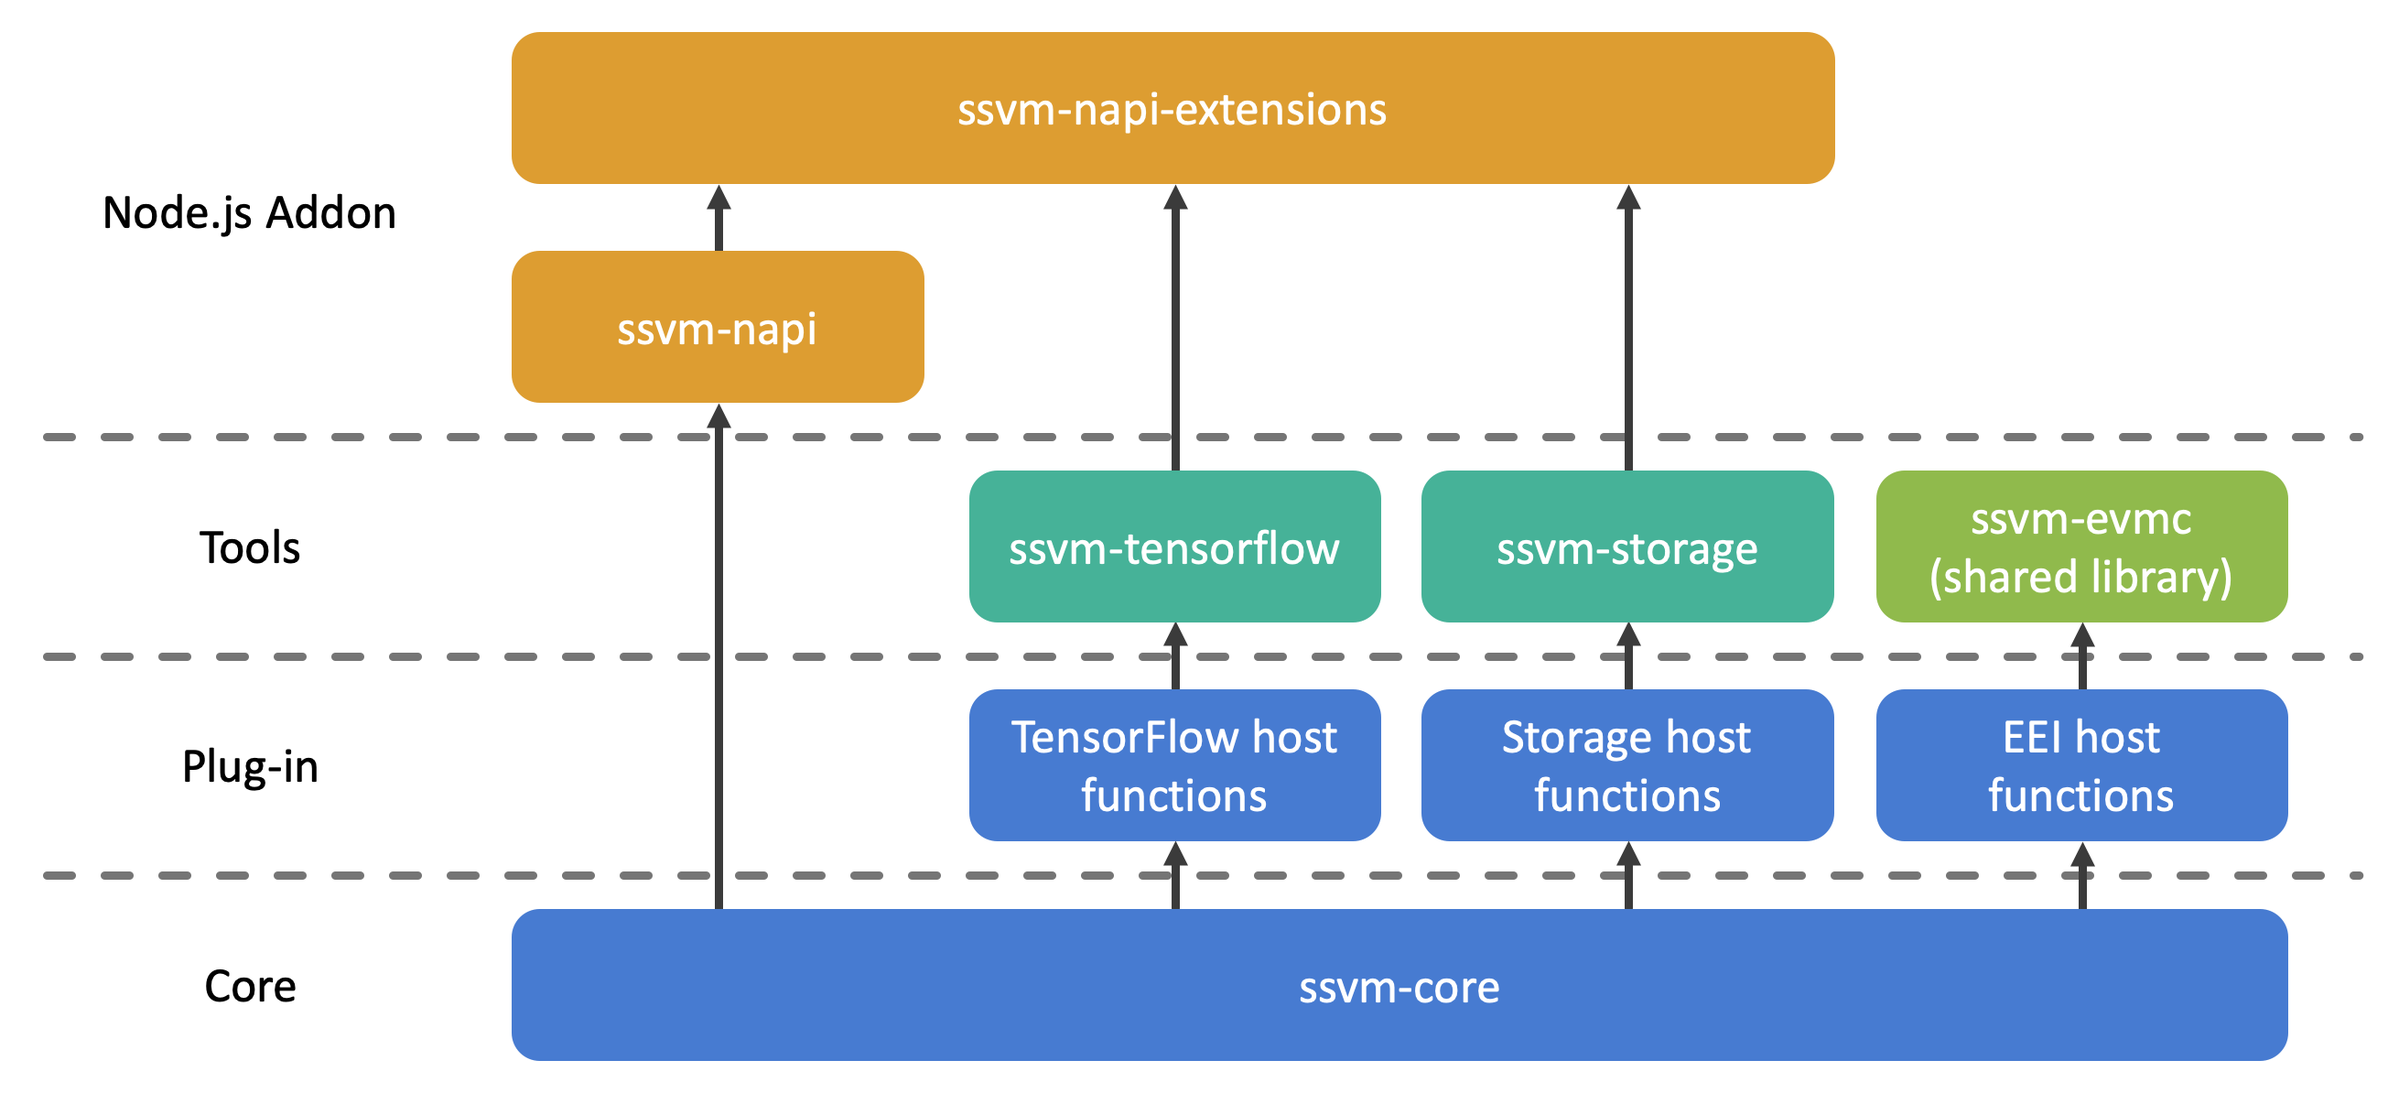
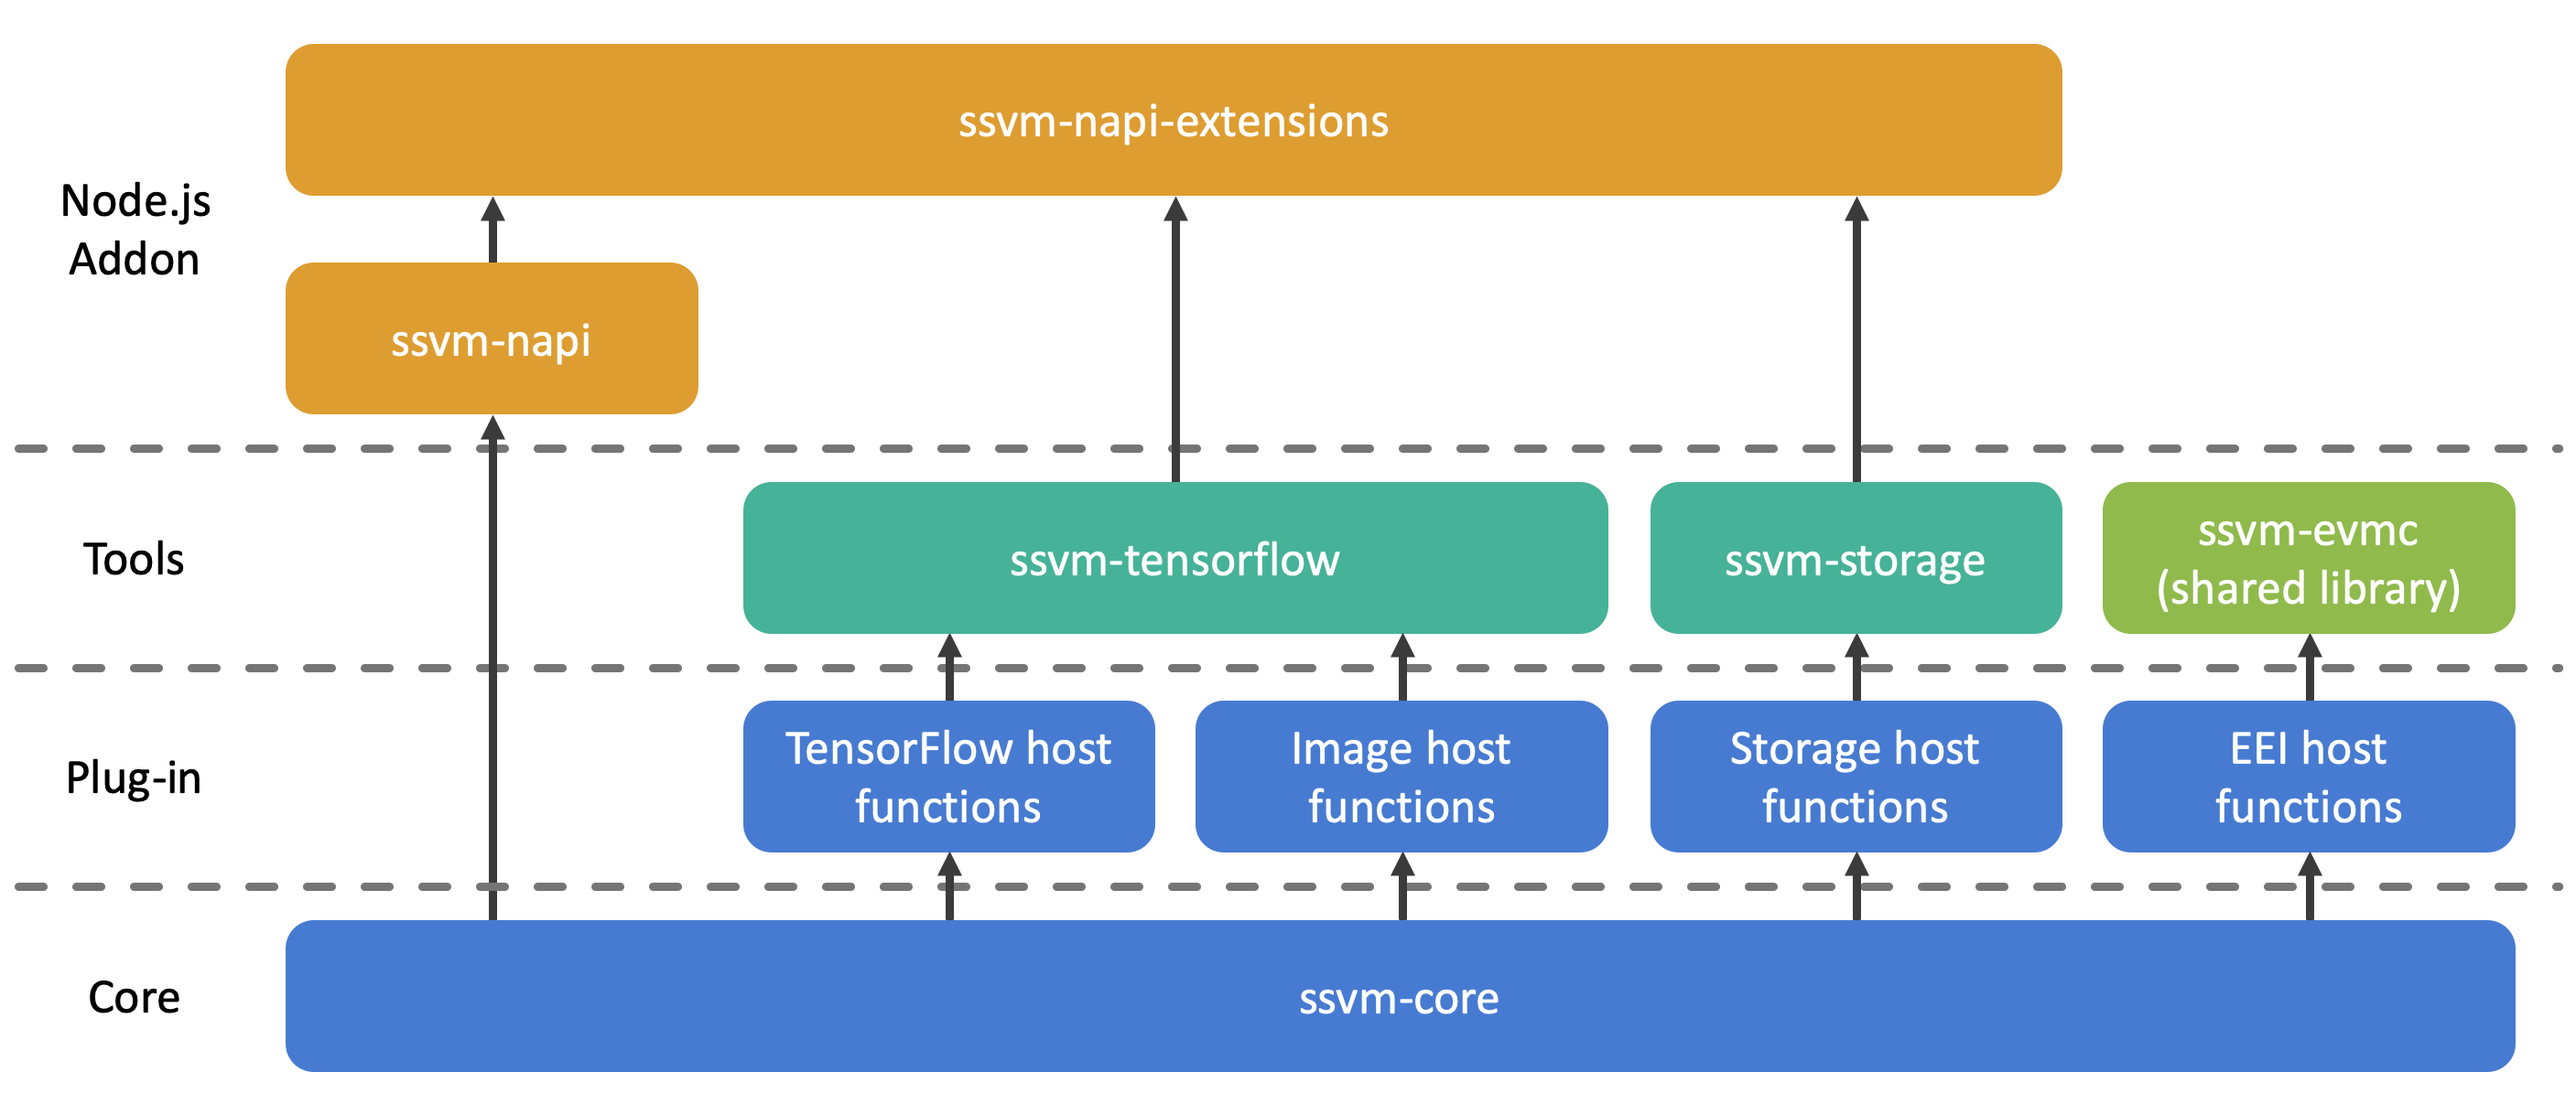
[Doc] Update documentation of ssvm ecosystem.

diff --git a/doc/ecosystem.md b/doc/ecosystem.md
@@ -9,6 +9,7 @@
 * Core: The [SSVM core project](https://github.com/second-state/ssvm).
 * Plug-in: The extensions of `WASM` host functions with their dependencies.
   * [SSVM-TensorFlow](https://github.com/second-state/ssvm-tensorflow) contains the host function extensions which access to [TensorFlow C library](https://www.tensorflow.org/install/lang_c).
+  * [SSVM-Image](https://github.com/second-state/ssvm-image) contains the host function extensions about `JPEG` and `PNG` image decodings.
   * [SSVM-Storage](https://github.com/second-state/ssvm-storage) contains the host function extensions which access to [Rust storage library](https://github.com/second-state/rust_native_storage_library).
   * [SSVM-EVMC](https://github.com/second-state/ssvm-evmc) contains the host function extensions that are compatible with [Ethereum Environment Interface](https://github.com/ewasm/design/blob/master/eth_interface.md).
 * Tools: The executables or shared libraries.
@@ -22,7 +23,8 @@
 ## Releasing Steps
 
 1. [SSVM core](https://github.com/second-state/ssvm) Releases.
-2. Release a new version of tools and libraries with updating to the new `SSVM core`.
+2. Release a new version of plug-ins, tools, and libraries with updating to the new `SSVM core`.
+    * [SSVM-Image](https://github.com/second-state/ssvm-image)
     * [SSVM-TensorFlow](https://github.com/second-state/ssvm-tensorflow)
     * [SSVM-Storage](https://github.com/second-state/ssvm-storage)
     * [SSVM-EVMC](https://github.com/second-state/ssvm-evmc)
